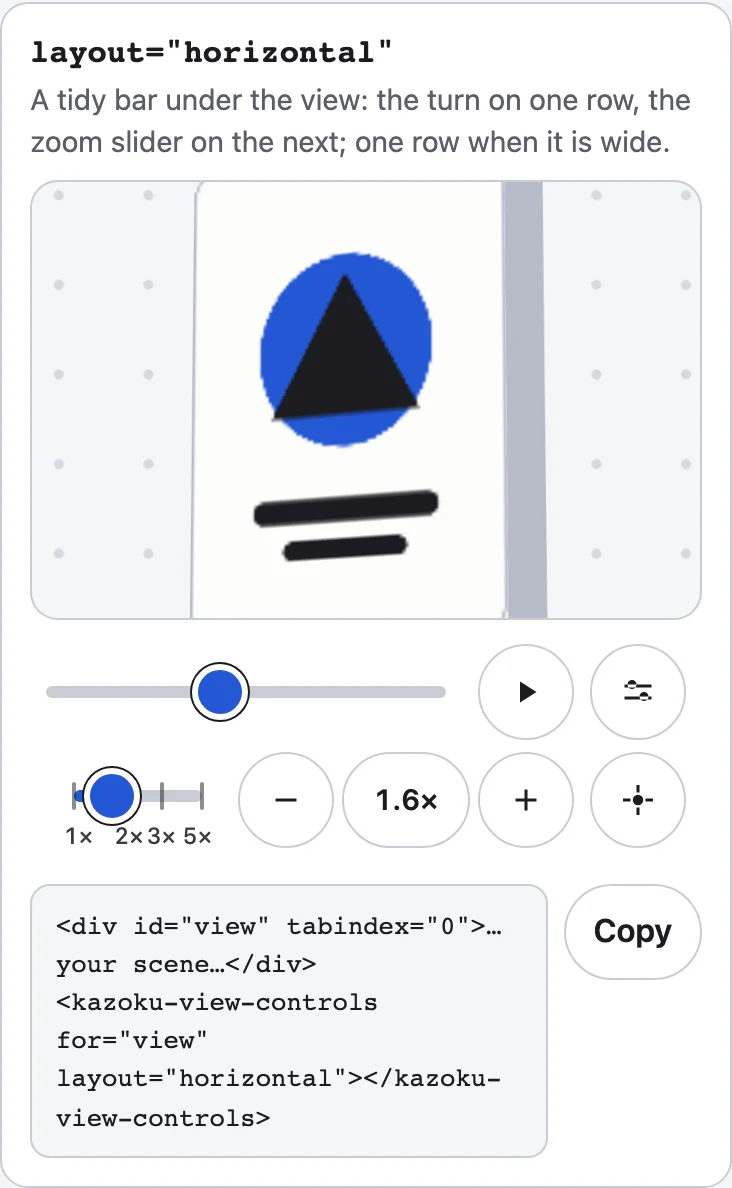
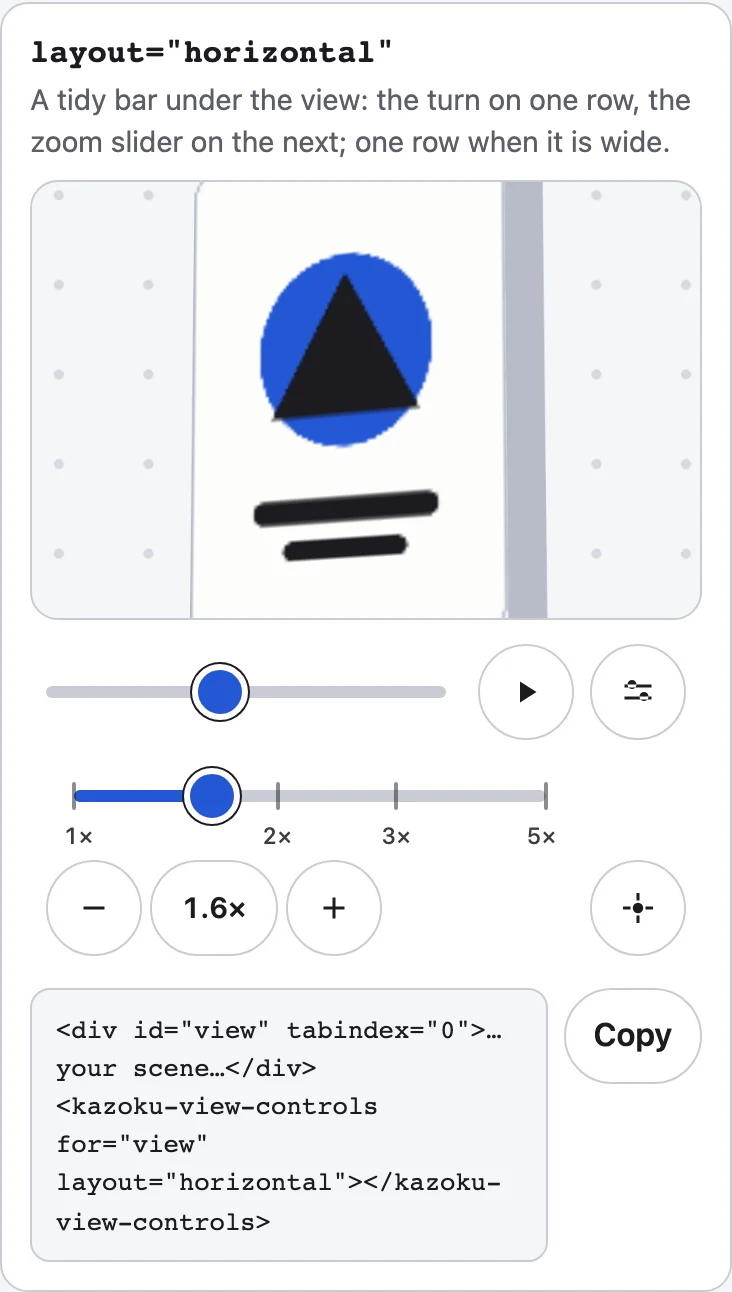
fix(layouts): hold at phone width and narrow panels

diff --git a/src/view-controls/styles.ts b/src/view-controls/styles.ts
@@ -88,6 +88,13 @@ button[aria-pressed="true"] .i-play, button[aria-pressed="false"] .i-pause { dis
   ${CLASSIC} .pan { grid-area: pan; justify-content: center; }
   ${CLASSIC} .drag { margin-inline-start: 4px; }
 }
+/* In a panel narrower than the buttons and the speed need side by side, the speed takes the row under them. */
+${CLASSIC} { container-type: inline-size; }
+@container (max-width: 329px) {
+  @media (max-width: 640px) {
+    ${CLASSIC} .pace-now { grid-area: pace; justify-self: end; }
+  }
+}
 
 /* The zoom slider (horizontal, vertical and compact): a logarithmic track with ticks at its marks, the labels under it, and the part from the least zoom to the zoom now filled. */
 .zslide { display: none; }
@@ -122,7 +129,7 @@ ${H} .more, ${V} .more, ${C} .more { grid-area: more; margin-inline-start: 0; }
 /* Centre, shown once the view is zoomed or moved: beside the zoom, never in the turn's row, so Auto-turn and More stay where they are. */
 ${H} .centre, ${V} .centre, ${C} .centre { grid-area: centre; justify-self: end; }
 /* In the two rows it shares More's column, so it is an icon (its name is read) and never widens that column, which would move Auto-turn. */
-@container (max-width: 899px) {
+@container (max-width: 1039px) {
   ${H} .centre .text { ${UNSEEN} }
   ${H} .centre { padding: 0; }
 }
@@ -137,10 +144,19 @@ ${H} .zoom button.level, ${V} .zoom button.level, ${C} .zoom button.level { padd
   /* The readout is Fit here (its name says so), which leaves the slider the room for its marks. */
   ${H} [data-b="fit"] { display: none; }
 }
-@container (min-width: 900px) {
+/* A phone-safe width: the zoom slider takes a row of its own, so its marks never meet the buttons, and the buttons sit under it. */
+@container (max-width: 359px) {
+  ${H} .zoom { flex-wrap: wrap; }
+  ${H} .zslide { flex: 1 0 100%; }
+  ${H} .centre { align-self: end; }
+  ${H} .zbox { min-width: 0; }
+}
+/* Wide enough for the turn, Auto-turn, the zoom with its slider, Centre and More on one row, with the angle slider still a slider. */
+@container (min-width: 1040px) {
   ${H} .bar { grid-template-columns: minmax(0, 1fr) auto auto auto auto auto; grid-template-areas: "angle speed play zoom centre more" "tilt tilt tilt pace front front" "pan pan pan pan pan pan"; column-gap: 12px; }
   :host([data-layout="horizontal"][data-flat]) .bar { grid-template-columns: minmax(0, 1fr) auto auto; grid-template-areas: "zoom centre more" "pan pan pan"; }
-  ${H} .zslide { flex: 0 0 15rem; }
+  ${H} .zslide { width: 15rem; }
+  ${H} .zoom { display: grid; grid-auto-flow: column; grid-auto-columns: auto; }
   ${H} .pan { justify-self: end; }
 }
 

diff --git a/README.md b/README.md
@@ -187,7 +187,7 @@ The `layout` attribute says where the controls sit; `controls` (`basic` or `adva
 | `layout` | What it looks like | Basic shows | More adds |
 |---|---|---|---|
 | `classic` (the default) | The bar of 0.10 and before, unchanged: one wrapping row at a desk, two rows on a phone. No zoom slider. | Angle, Auto-turn, − readout +, Fit, More | Tilt, Slow, Medium, Fast, Front; the pan pad once zoomed in |
-| `horizontal` | A tidy bar under the view: the turn on one row (Angle, Auto-turn, More), the **zoom slider** on the next (Zoom, − readout +, Fit). One row when the bar is 900 px or wider. Under 560 px the labels are read by a screen reader only, and the readout is Fit. Centre, once the view is zoomed or moved, comes in at the end of the zoom row (an icon in the two rows, so Auto-turn and More never move). | Angle, Auto-turn, the zoom slider, − readout +, Fit, More | Tilt and Front, then the speeds, between the two rows; the pan pad last |
+| `horizontal` | A tidy bar under the view: the turn on one row (Angle, Auto-turn, More), the **zoom slider** on the next (Zoom, − readout +, Fit). One row when the bar is 1040 px or wider. Under 560 px the labels are read by a screen reader only, and the readout is Fit; under 360 px the zoom slider takes a row of its own, with the buttons under it, so its marks never meet them. Centre, once the view is zoomed or moved, comes in at the end of the zoom row (an icon in the two rows, so Auto-turn and More never move). | Angle, Auto-turn, the zoom slider, − readout +, Fit, More | Tilt and Front, then the speeds, between the two rows; the pan pad last |
 | `vertical` | A column beside the view, `--kazoku-column-width` wide (16rem). Auto-turn and More at the top, so More does not move when it opens; then the Angle slider, the zoom slider, and − readout + and Fit. On a narrow screen put it under the view and give it `width: auto`. | Auto-turn, More, Angle, the zoom slider, − readout +, Fit | Tilt, the speeds, Front, the pan pad, in the column |
 | `compact` | The least room, for a card or a phone: **one row** of Auto-turn, −, the readout, + and More (icons, named for a screen reader). It never takes a second row until More is pressed; while it turns, the speed is in More, and Centre is there with Fit. | Auto-turn, − readout +, More | Everything else, one press away, under the row: the zoom slider and Fit, Angle, Tilt, the speeds, Front, the pan pad |
 

diff --git a/docs/guides/ja/layouts-and-zoom.md b/docs/guides/ja/layouts-and-zoom.md
@@ -16,7 +16,7 @@ description: 1つの属性で操作の置き場所を選び、ズームスライ
 | `layout` | 見た目 | basicで出るもの | 「詳細」で加わるもの |
 |---|---|---|---|
 | `classic`（既定） | これまでのバー。デスクトップでは折り返す1行、スマートフォンでは2行。ズームスライダーなし。 | 角度、自動回転、ズームの数値表示、全体表示、詳細 | 傾き、ゆっくり、ふつう、はやい、正面。ズーム中は移動パッド |
-| `horizontal` | ビューの下の整ったバー。1行目に回転の操作（角度、自動回転、詳細）、次の行に**ズームスライダー**。バーの幅が900 px以上なら1行。560 px未満では、ラベルはスクリーンリーダーだけが読みます。 | 角度、自動回転、ズームスライダー、数値表示、全体表示、詳細 | 傾きと正面、続いて速さ。移動パッドは最後 |
+| `horizontal` | ビューの下の整ったバー。1行目に回転の操作（角度、自動回転、詳細）、次の行に**ズームスライダー**。バーの幅が1040 px以上なら1行。560 px未満では、ラベルはスクリーンリーダーだけが読みます。360 px未満では、ズームスライダーだけで1行を使い、ボタンはその下に並ぶので、目盛りがボタンに重なりません。 | 角度、自動回転、ズームスライダー、数値表示、全体表示、詳細 | 傾きと正面、続いて速さ。移動パッドは最後 |
 | `vertical` | ビューの横の縦長の列。幅は`--kazoku-column-width`（16rem）。自動回転と「詳細」が上にあるので、「詳細」を開いても動きません。 | 自動回転、詳細、角度、ズームスライダー、数値表示、全体表示 | 傾き、速さ、正面、移動パッド |
 | `compact` | 場所を最小限しか取りません。カードやスマートフォン向けに、自動回転、縮小、数値表示、拡大、詳細を**1行**に収めます。「詳細」を押すまで2行目にはなりません。 | 自動回転、数値表示、詳細 | そのほかすべて。1回押すと、行の下に出ます |
 

diff --git a/docs/guides/layouts-and-zoom.md b/docs/guides/layouts-and-zoom.md
@@ -14,7 +14,7 @@ The `layout` attribute of `<kazoku-view-controls>` says where the controls sit. 
 | `layout` | What it looks like | Basic shows | More adds |
 |---|---|---|---|
 | `classic` (the default) | The original bar: one wrapping row at a desk, two rows on a phone. No zoom slider. | Angle, Auto-turn, zoom readout, Fit, More | Tilt, Slow, Medium, Fast, Front; the pan pad once zoomed in |
-| `horizontal` | A tidy bar under the view: the turn on one row (Angle, Auto-turn, More), the **zoom slider** on the next. One row when the bar is 900 px or wider. Under 560 px the labels are read by a screen reader only. | Angle, Auto-turn, the zoom slider, readout, Fit, More | Tilt and Front, then the speeds; the pan pad last |
+| `horizontal` | A tidy bar under the view: the turn on one row (Angle, Auto-turn, More), the **zoom slider** on the next. One row when the bar is 1040 px or wider. Under 560 px the labels are read by a screen reader only. Under 360 px the zoom slider takes a row of its own, with the buttons under it, so its marks never meet them. | Angle, Auto-turn, the zoom slider, readout, Fit, More | Tilt and Front, then the speeds; the pan pad last |
 | `vertical` | A column beside the view, `--kazoku-column-width` wide (16rem). Auto-turn and More at the top, so More does not move when it opens. | Auto-turn, More, Angle, the zoom slider, readout, Fit | Tilt, the speeds, Front, the pan pad |
 | `compact` | The least room, for a card or a phone: **one row** of Auto-turn, minus, the readout, plus and More. It never takes a second row until More is pressed. | Auto-turn, readout, More | Everything else, one press away, under the row |
 

diff --git a/CHANGELOG.md b/CHANGELOG.md
@@ -2,6 +2,13 @@
 
 ## [Unreleased]
 
+## [0.13.1] - 2026-11-03
+
+The layouts hold at a phone's width and in any narrow panel.
+
+- **Every layout works at a phone's width and at a desk's** (KAZOKU-UI-42, from the senshu-jerseys 0.36.0 rollout). `horizontal` in a panel under 360 px wide (336 px at a 390 px screen, with the page's margins) put the zoom slider's marks over each other and over the minus button, and squashed the bar; now, under 360 px, the slider has a row of its own and the buttons sit under it (Centre beside them). The one-row form of the horizontal bar began at 900 px, where the angle slider was squeezed to 60 px and met Auto-turn and the speed button; it now begins at 1040 px, and the two rows hold between. `classic` on a phone in a panel under 330 px put the speed button over the minus button; it takes the row under them there.
+- `e2e/phone-layouts.demo.mjs`: each layout at both levels (`controls`), still, turning, zoomed and with More pressed, at the phone's width and at forced panel widths from 280 px to 1100 px: no two controls overlap, none is outside the controls, a button is at least 47.5 px tall, a slider at least 60 px wide, and the page never scrolls sideways. `advanced` with `compact` holds in all of them; the two senshu tests that broke on it could not be reproduced here, so if one comes back, send its page and width.
+
 ## [0.13.0] - 2026-11-03
 
 The wheel over the view zooms it, in every family package that uses the view controls.
